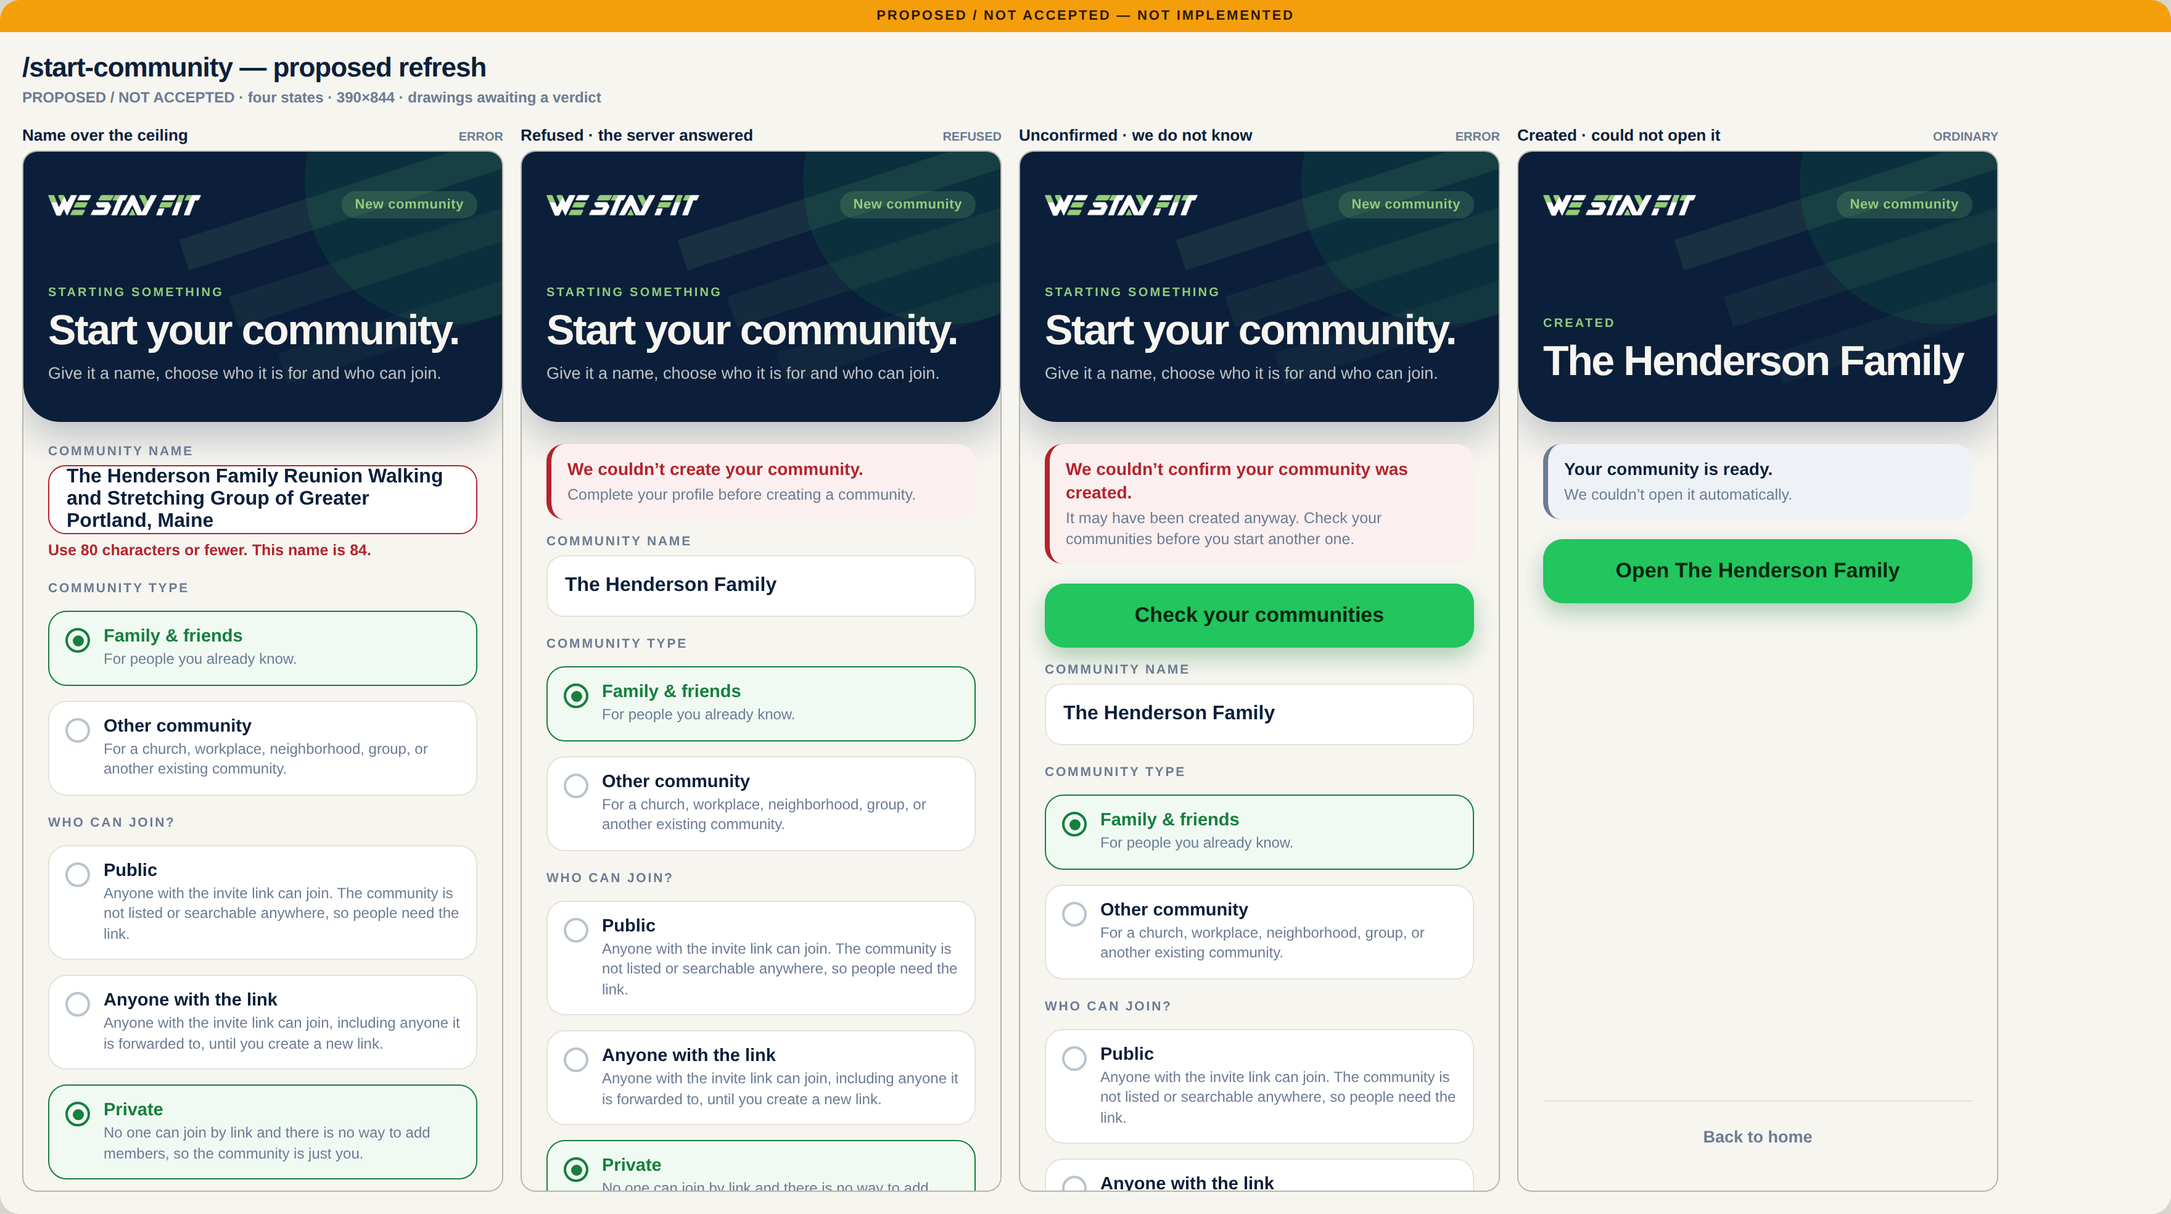
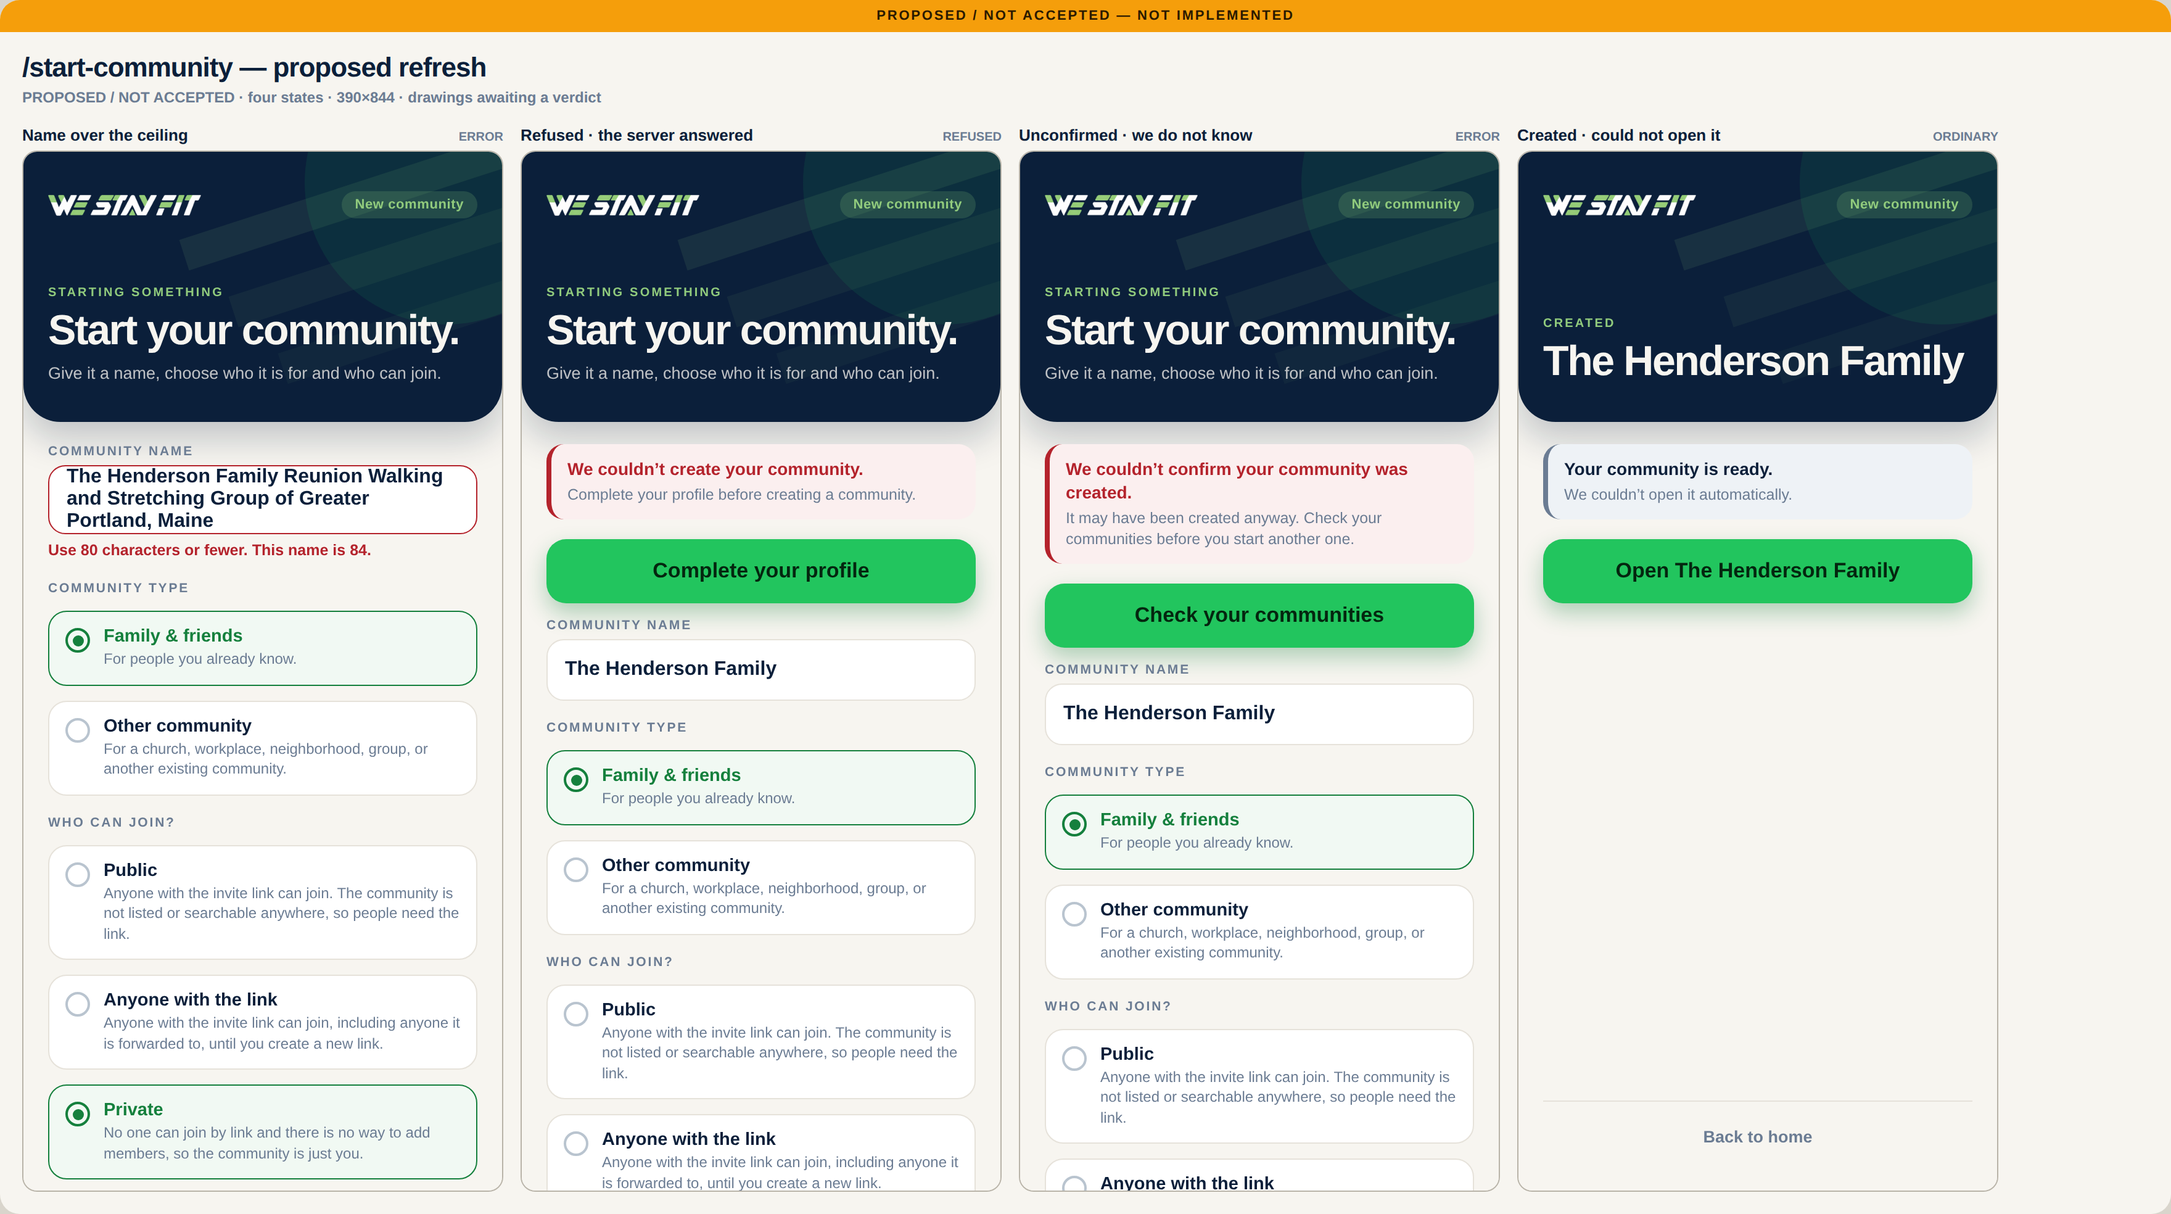
W4: the Director's two interaction corrections on the start-community proposal
Successor delta to 64e1cbf, per 5787041281. Same four states, no new screen
set, no changed admission defaults, BEFOREs reused byte-for-byte.

THE REFUSAL NO LONGER OFFERS THE ACTION THAT REFUSED IT. The server will
refuse this same request until the profile exists, so repeating "Create
community" only buys a second copy of the same sentence. Its one action is
now the profile step. It promises no return and no saved draft, because
neither exists: profile-setup.tsx:157 finishes with
router.replace(nextRouteAfterAuth('/')), and that resolver
(pendingJoinCode.ts:96) knows a pending join code, an event return and a
kiosk return goal — there is no slot for coming back to creation, and adding
one would be the new storage this packet rules out. Reported as F5 with the
cost of the smallest honest fix, not written.

THE RETRY SAYS WHAT IT STARTS. "Create it again" read as a replay of the
request that was lost; it is now "Start another community", with the
duplicate risk stated immediately under it rather than in the banner at the
top of the sheet — so it survives the scroll on a 390x640 phone, which the
-end frame now proves. The submit slot on the proposal's form is required
rather than defaulted, so a frame that removes the create action cannot
quietly get it back.

"Check your communities" is unchanged and its destination is F6, reported
not solved. The list exists only inside index.tsx:416 and only when
[…]

Changed region(s): [[0.25, 0.4339, 0.4688, 0.9919]]

diff --git a/apps/westayfit/src/ui/designTarget/JoinSetupTargets.tsx b/apps/westayfit/src/ui/designTarget/JoinSetupTargets.tsx
@@ -1091,7 +1091,9 @@ function StartFieldNext({
 }
 
 /** The B2 form again, frozen at arm's length from the accepted one. `submit`
- * is the whole reason it exists: the unconfirmed frame has to demote it. */
+ * is the whole reason it exists, and it is REQUIRED rather than defaulted:
+ * one frame demotes the create action, one removes it, and a default would
+ * have quietly put it back. */
 function StartFormNext({
   variant,
   nameValue,
@@ -1103,7 +1105,7 @@ function StartFormNext({
   nameValue?: string;
   nameError?: string;
   nameInvalid?: boolean;
-  submit?: React.ReactNode;
+  submit: React.ReactNode;
 }) {
   const family = variant === 'familyFriends';
   return (
@@ -1151,7 +1153,7 @@ function StartFormNext({
             (family ? 'Private' : 'Anyone with the link')}
         </Text>
       </View>
-      {submit ?? <Primary label="Create community" />}
+      {submit}
     </>
   );
 }
@@ -1173,6 +1175,7 @@ export function StartNextNameTooLongTarget() {
               variant="familyFriends"
               nameValue="The Henderson Family Reunion Walking and Stretching Group of Greater Portland, Maine"
               nameError="Use 80 characters or fewer. This name is 84."
+              submit={<Primary label="Create community" />}
             />
             <Foot>
               <Secondary label="Back to home" quiet />
@@ -1204,7 +1207,27 @@ export function StartNextRefusedTarget() {
               title="We couldn’t create your community."
               body="Complete your profile before creating a community."
             />
-            <StartFormNext variant="familyFriends" nameValue="The Henderson Family" />
+            <Primary label="Complete your profile" />
+            {/*
+              NO CREATE ACTION ON THIS FRAME. The server has already refused
+              this exact request and will refuse it again until the profile
+              exists, so repeating the button would only buy the member a
+              second copy of the same sentence. The one way forward is the
+              profile step, and it is the only thing drawn as an action.
+
+              IT PROMISES NO RETURN AND NO SAVED DRAFT, because neither exists:
+              `profile-setup.tsx:157` finishes with
+              `router.replace(nextRouteAfterAuth('/'))`, and that resolver
+              (`pendingJoinCode.ts:96`) knows a pending join code, an event
+              return and a kiosk return goal — there is no slot for coming back
+              to creation, and adding one would be the new storage this packet
+              rules out. Reported as a finding instead.
+            */}
+            <StartFormNext
+              variant="familyFriends"
+              nameValue="The Henderson Family"
+              submit={null}
+            />
             <Foot>
               <Secondary label="Back to home" quiet />
             </Foot>
@@ -1239,7 +1262,15 @@ export function StartNextUnconfirmedTarget() {
             <StartFormNext
               variant="familyFriends"
               nameValue="The Henderson Family"
-              submit={<Secondary label="Create it again" />}
+              submit={
+                <>
+                  <Secondary label="Start another community" />
+                  <Text style={s.actionNote}>
+                    This starts a new, separate community. If the first one was created, you will
+                    have two.
+                  </Text>
+                </>
+              }
             />
             <Foot>
               <Secondary label="Back to home" quiet />
@@ -2270,6 +2301,9 @@ const s = StyleSheet.create({
   bannerTitle: { color: NAVY, fontSize: 14, lineHeight: 19, fontWeight: '900' },
   bannerTitleError: { color: ERROR_RED },
   bannerBody: { color: INK_QUIET, fontSize: 12.5, lineHeight: 17 },
+  /** A caution that belongs to the control under it, so it survives the scroll
+   * that leaves the banner at the top of the sheet off a short phone. */
+  actionNote: { color: INK_QUIET, fontSize: 12.5, lineHeight: 17, marginTop: 10 },
 
   /* choices */
   option: {

diff --git a/apps/westayfit/tests-e2e/sprint-w4-start-community-next-capture.spec.ts b/apps/westayfit/tests-e2e/sprint-w4-start-community-next-capture.spec.ts
@@ -197,6 +197,17 @@ test.describe('the proposal', () => {
         for (const id of PROPOSED) {
           const frame = page.getByTestId(`wsf-frame-scnext-${id}-${c}`);
           await expect(frame).toBeVisible();
+
+          // The refusal offers the way FORWARD, not the action that just
+          // refused: the server will refuse this same request until the
+          // profile exists.
+          if (id === 'start-next-refused') {
+            await expect(frame.getByText('Complete your profile').first()).toBeVisible();
+            expect(
+              await frame.getByText('Create community').count(),
+              'the refusal still offers the action the server just refused',
+            ).toBe(0);
+          }
           // The strip is what stops one of these being mistaken for shipped
           // UI three weeks from now, so it is asserted, not assumed.
           await expect(page.getByTestId(`wsf-frame-banner-scnext-${id}-${c}`)).toBeVisible();
@@ -230,7 +241,16 @@ test.describe('the proposal', () => {
               scrolled,
               'the demoted retry is below the fold and no end frame was taken',
             ).toBe(true);
-            await expect(page.getByText('Create it again').first()).toBeVisible();
+            // The retry says what it STARTS, and the duplicate risk is next to
+            // it rather than in the banner the scroll has just left behind.
+            await expect(frame.getByText('Start another community')).toBeVisible();
+            await expect(
+              frame.getByText('This starts a new, separate community.', { exact: false }),
+            ).toBeVisible();
+            expect(
+              await frame.getByText('Create it again').count(),
+              'the retry still reads as a replay of the request that was lost',
+            ).toBe(0);
           }
           if (scrolled) {
             await page.waitForTimeout(120);

diff --git a/docs/design-target/review/start-community-next/findings.md b/docs/design-target/review/start-community-next/findings.md
@@ -143,3 +143,104 @@ never tells the member the problem is length.
 
 **Drawn as** `start-next-name-too-long`, stating the ceiling the callable
 actually enforces, before a request is sent.
+
+---
+
+## The deliberate mapping — which codes are a refusal and which are not
+
+Asked for at `5787041281`. Not every error is a definitive refusal, and the
+split is not a judgement call: it is whether the **server answered**.
+
+| What `wsfCreateCommunity` / the SDK produces | The server answered? | Presentation |
+|---|---|---|
+| `unauthenticated` | yes | the existing **signed-out gate** — unchanged, still its own frame |
+| `failed-precondition` · *"Verify your email…"* | yes | the existing **unverified gate** — unchanged, still its own frame |
+| `failed-precondition` · *"Complete your profile…"* | yes | **refusal** → `start-next-refused`. Thrown inside the transaction, so no gate catches it first and it lands in the form |
+| `invalid-argument` (name, groupType, joinPolicy) | yes | **refusal** in the form. The length case is stated client-side first (`start-next-name-too-long`) so it does not need a round trip |
+| `permission-denied`, `not-found`, `resource-exhausted`, `already-exists` | yes | **refusal** in the form, with the existing `CODE_SENTENCES` wording |
+| `deadline-exceeded`, `unknown`, `cancelled`, `aborted`, `data-loss` | **no** | **unconfirmed** → `start-next-unconfirmed` |
+| `unavailable` | **no** | **unconfirmed**. It usually means the request never left, but the client cannot prove that, and the cost of being wrong is a duplicate community |
+| callable `internal` carrying a member sentence | yes | **refusal**, sentence passed through as today |
+| callable `internal` carrying only the bare code | **no** | **unconfirmed** — this is the SDK's transport failure wearing a server code |
+| a throw **after** the awaited call resolved | n/a — it already succeeded | **created** → `start-next-created` |
+
+The two existing gates stay distinct and untouched. Nothing here renders
+server-provided developer text; `looksLikeDeveloperText` keeps doing that job.
+
+---
+
+## F5 — there is no way to send a member to the profile step and back to creation
+
+**Severity: LOW as a defect, but it bounds what `start-next-refused` may promise.**
+
+The Director's correction asks the profile-precondition refusal to offer "a
+return to creation using existing navigation support". **That support does not
+exist.** `apps/westayfit/app/profile-setup.tsx:157` finishes with:
+
+```ts
+router.replace(nextRouteAfterAuth('/') as never);
+```
+
+and `apps/westayfit/src/pendingJoinCode.ts:96-104` resolves exactly three
+stored returns — a pending join code, an event return, a kiosk return goal —
+falling back to the caller's string. There is no slot for `/start-community`,
+and `profile-setup` reads only an `edit` param. No route in
+`apps/westayfit/app` takes a generic `next` / `returnTo` / `from` param
+(searched; zero matches).
+
+Adding one would be a fourth stored return — **new storage**, which this packet
+rules out. So the frame draws the profile step as the way forward and
+**promises nothing about coming back or about the form being kept**. After the
+profile step the member lands on Home, as they do today.
+
+**If a return is wanted**, the smallest honest shape is a fourth resolver
+alongside the existing three, written and consumed the same way. That is a
+product change to files outside this worker's set, and it is not proposed here
+— only costed.
+
+---
+
+## F6 — "Check your communities" has no destination that reliably shows the list
+
+**Severity: MEDIUM, and it blocks half of the second correction.**
+
+The correction asks that the action reach "the EXISTING member community list
+rather than merely `/`". The list exists — `MyCommunitiesList`,
+`apps/westayfit/app/index.tsx:416`, under the eyebrow "Choose a community" —
+but it is rendered **only** by `/`, and only when `/` decides not to open a
+community instead:
+
+```ts
+const openable = resolveCurrentCommunity(user?.uid ?? null, items.map(i => i.groupId));
+useEffect(() => { if (openable) router.replace(`/community/${openable}`); }, [openable]);
+```
+
+`resolveCurrentCommunity` (`src/currentCommunity.ts:51-65`) returns a community
+when a remembered id is still in `memberOf`, **or** when there is exactly one.
+No other route renders the list: `/you` resolves to a single community and
+shows a `pickCommunity` state when it cannot, and `/activity` aggregates across
+communities without listing them as destinations. Nothing takes a param that
+suppresses the auto-open.
+
+**What `/` actually does after an unconfirmed create**, by case:
+
+| The member had | The create in fact | `/` shows | Verdict |
+|---|---|---|---|
+| no communities | succeeded | opens the new community (`memberOf` is now 1) | **resolves the uncertainty** |
+| no communities | did not happen | "You're not in a community yet" | **resolves the uncertainty** |
+| one or more | succeeded | opens the **remembered** community | **fails** — the member cannot tell whether the new one exists |
+| one or more | did not happen | opens the remembered community | **fails** — same screen as the row above |
+
+So `/` is right in the two cases where the member had nothing, and wrong in
+exactly the case the uncertainty matters most: the member already has a
+community, and the two outcomes are indistinguishable.
+
+**Smallest fix that uses what is there**, for the lead to assign if wanted: a
+query param on `/` that skips the auto-open for that navigation — one condition
+on the existing `openable` effect, no new route, no storage, no backend, no
+sync. It is a change to `app/index.tsx`, which is outside this worker's set,
+so it is reported rather than written.
+
+**The drawing stands either way**: the label and the hierarchy are what the
+frame proposes. Its destination is this finding, and it should not be
+implemented against bare `/` while the third row of that table is true.

diff --git a/docs/design-target/review/start-community-next/README.md b/docs/design-target/review/start-community-next/README.md
@@ -44,8 +44,8 @@ network layer. Nothing about the server was changed to take that frame.
 
 | frame | the claim |
 |---|---|
-| `PROPOSED-start-next-refused-*` | the server **answered**; nothing was created and the screen may say so |
-| `PROPOSED-start-next-unconfirmed-*` | the transport failed; the screen says it **does not know**, promotes "Check your communities", demotes the retry |
+| `PROPOSED-start-next-refused-*` | the server **answered**; nothing was created and the screen may say so. Its one action is the profile step — **not** the create button the server just refused |
+| `PROPOSED-start-next-unconfirmed-*` | the transport failed; the screen says it **does not know**, promotes "Check your communities", and demotes the retry to **"Start another community"** with the duplicate risk stated next to it |
 | `PROPOSED-start-next-created-*` | a confirmed `groupId` whose navigation failed is a **success** with one thing left to do |
 | `PROPOSED-start-next-name-too-long-*` | the 80-character ceiling stated where it is enforced |
 
@@ -70,6 +70,14 @@ Detail, with line numbers and reproductions, in
    because `router.replace()` sits inside the same `try` as the awaited call.
 4. **The form accepts a name the server refuses**, and the refusal never names
    the length.
+
+Two more were found while applying the Director's interaction corrections at
+`5787041281`, and both bound what these frames may promise: there is **no
+navigation support for returning to creation** after the profile step (F5), and
+**no destination that reliably shows the member's community list** (F6) —
+`/` opens a remembered community instead. `findings.md` carries the case
+analysis and the smallest fix for each. It also carries the deliberate
+code-by-code mapping of which results are refusals and which are not.
 
 `wsfCreateCommunity` carries **no attempt key**. This proposal asks for none
 and claims no idempotency — it is a frontend recovery proposal only. No new
@@ -97,7 +105,7 @@ second create, and no promise that retrying is free.
 | `before/start-name-over-80-accepted-390x844.png` | 390×844 | `12f52d3a20d8dccd` |
 | `before/start-name-too-short-390x640.png` | 390×640 | `5c39f0c8ac3576bb` |
 | `before/start-name-too-short-390x844.png` | 390×844 | `7a61715f4125c1f7` |
-| `target/CONTACT-SHEET-start-community-next.png` | 3520×1968 | `139166e3175b8747` |
+| `target/CONTACT-SHEET-start-community-next.png` | 3520×1968 | `cbdd9a332f8799b1` |
 | `target/PROPOSED-start-next-created-390x640-end.png` | 780×1316 | `af52b1b1b4b1bf15` |
 | `target/PROPOSED-start-next-created-390x640.png` | 780×1316 | `91f7b30327aee522` |
 | `target/PROPOSED-start-next-created-390x844.png` | 780×1724 | `7c0d6e5907879c5e` |
@@ -105,11 +113,11 @@ second create, and no promise that retrying is free.
 | `target/PROPOSED-start-next-name-too-long-390x640.png` | 780×1316 | `19ff363b76a5a7d7` |
 | `target/PROPOSED-start-next-name-too-long-390x844-end.png` | 780×1724 | `9b69ca58c3472e77` |
 | `target/PROPOSED-start-next-name-too-long-390x844.png` | 780×1724 | `d6f19db7170ce260` |
-| `target/PROPOSED-start-next-refused-390x640-end.png` | 780×1316 | `5d54f1420e19798a` |
-| `target/PROPOSED-start-next-refused-390x640.png` | 780×1316 | `b4896bd6a328f000` |
-| `target/PROPOSED-start-next-refused-390x844-end.png` | 780×1724 | `95371a7789b960db` |
-| `target/PROPOSED-start-next-refused-390x844.png` | 780×1724 | `9383cb96b0a22ffa` |
-| `target/PROPOSED-start-next-unconfirmed-390x640-end.png` | 780×1316 | `84f41c5cb3ed0f02` |
+| `target/PROPOSED-start-next-refused-390x640-end.png` | 780×1316 | `0edc17f72f2339ef` |
+| `target/PROPOSED-start-next-refused-390x640.png` | 780×1316 | `c08b728e4eefbaa8` |
+| `target/PROPOSED-start-next-refused-390x844-end.png` | 780×1724 | `238f3dba4c9422dc` |
+| `target/PROPOSED-start-next-refused-390x844.png` | 780×1724 | `6a0eb52c0c1f1e17` |
+| `target/PROPOSED-start-next-unconfirmed-390x640-end.png` | 780×1316 | `d15fff408668d79a` |
 | `target/PROPOSED-start-next-unconfirmed-390x640.png` | 780×1316 | `1458dc3fa43888d3` |
-| `target/PROPOSED-start-next-unconfirmed-390x844-end.png` | 780×1724 | `fbb1698b3d8f9aa8` |
+| `target/PROPOSED-start-next-unconfirmed-390x844-end.png` | 780×1724 | `53753c023e5a9a72` |
 | `target/PROPOSED-start-next-unconfirmed-390x844.png` | 780×1724 | `338bda1325964ac9` |
